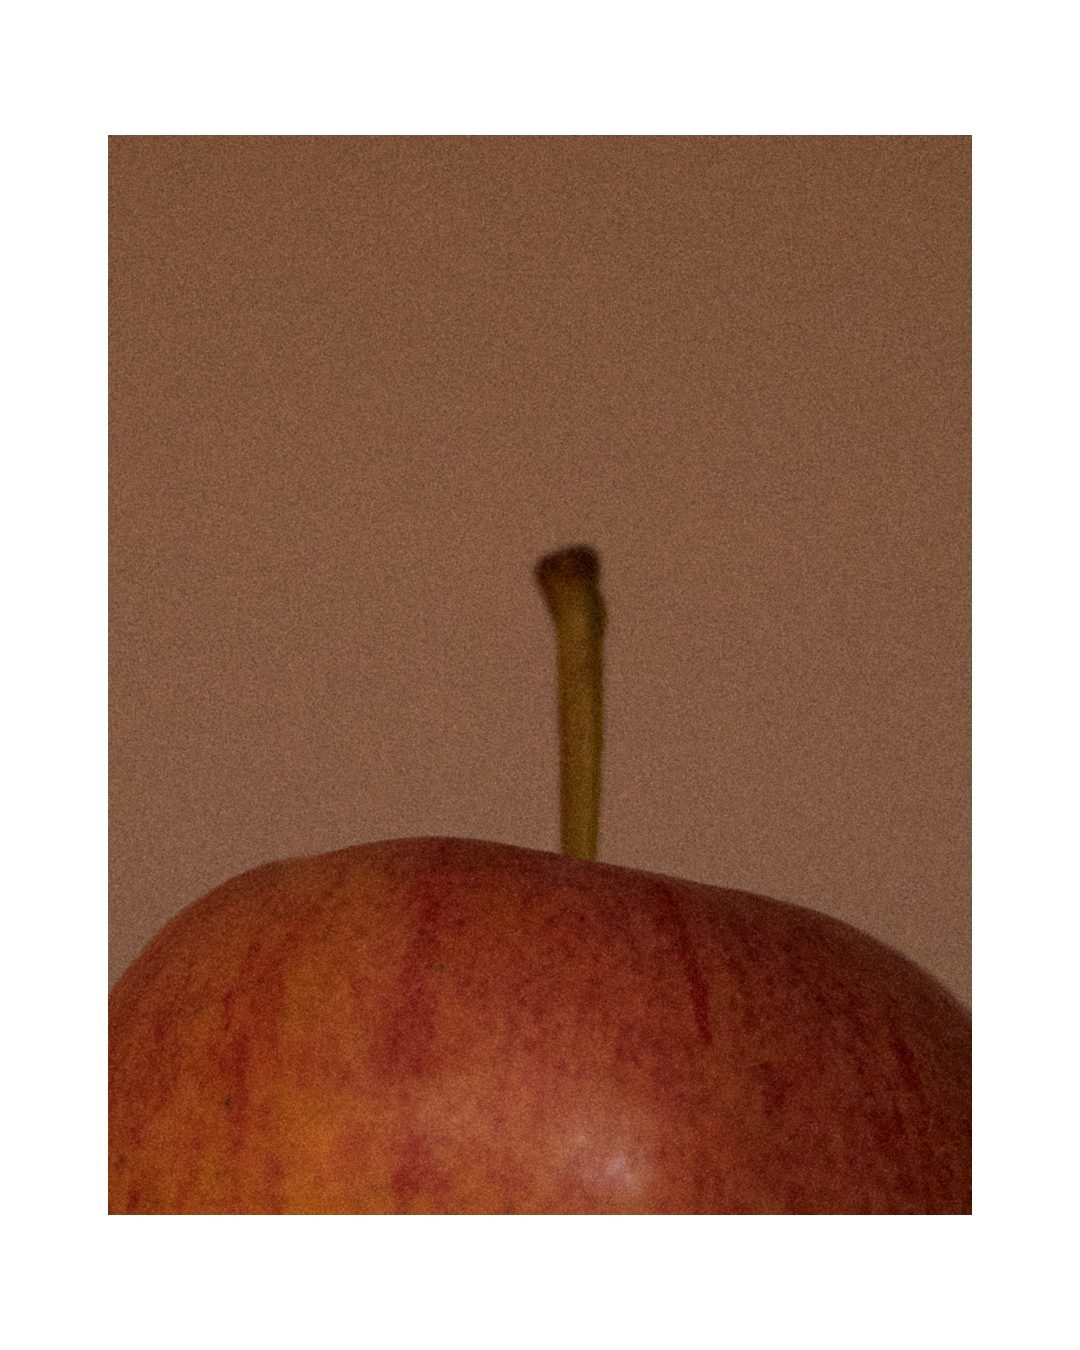
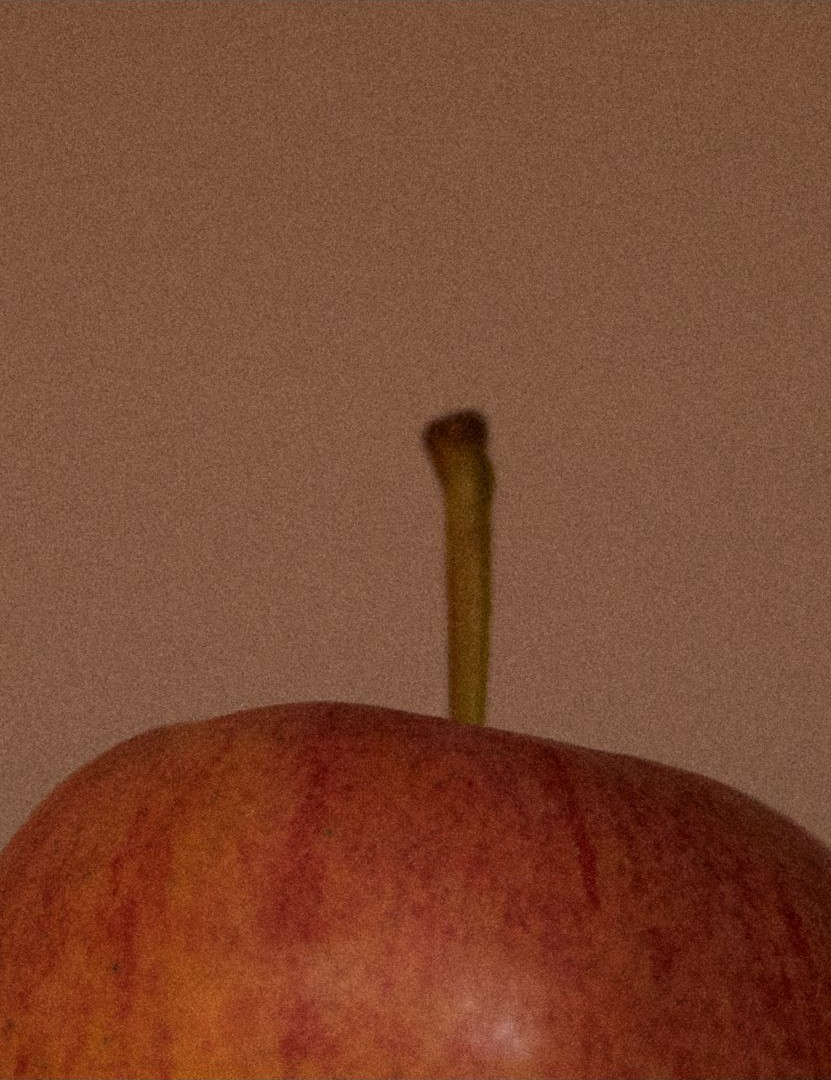
Studio : ratio et marge relevés image par image (31 valeurs), recadrage pomme 77 % et chevaux 87 % — colonne gauche exacte au pixel

diff --git a/studio.html b/studio.html
@@ -1,5 +1,5 @@
 <!DOCTYPE html>
-<html lang="fr" data-build="20260826-1925">
+<html lang="fr" data-build="20260826-2225">
 <head>
 <meta charset="utf-8">
 <meta http-equiv="Cache-Control" content="no-cache, no-store, must-revalidate">
@@ -10,7 +10,7 @@
 <meta name="description" content="Studio · Natures mortes, packshots et contenus produits réalisés par JP AYIVI.">
 <link rel="preload" href="assets/fonts/JumperPERSONALUSEONLY-Black.ttf" as="font" type="font/ttf" crossorigin>
 <link rel="preload" href="assets/fonts/JumperPERSONALUSEONLY-Light.ttf" as="font" type="font/ttf" crossorigin>
-<link rel="stylesheet" href="assets/css/style.css?v=2aa30fca">
+<link rel="stylesheet" href="assets/css/style.css?v=15c36648">
 </head>
 <body>
 <div class="pastille-cursor" aria-hidden="true"><span>Show<br>Reeel</span></div>
@@ -36,40 +36,39 @@
 <div class="gallery-wrap">
   <section class="masonry">
     <div class="col">
-      <figure class="item"><img src="media/st_2.jpg" alt="" loading="lazy"></figure>
-      <figure class="item"><img src="media/st_2G3A8914.jpg" alt="" loading="lazy"></figure>
-      <figure class="item"><img src="media/st_plums.jpg" alt="" loading="lazy"></figure>
-      <figure class="item"><img src="media/st_4.jpg" alt="" loading="lazy"></figure>
-      <figure class="item"><img src="media/st_8.jpg" alt="" loading="lazy"></figure>
-      <figure class="item"><img src="media/st_BK3A9473.jpg" alt="" loading="lazy"></figure>
-      <figure class="item"><img src="media/st_BK3A9519.jpg" alt="" loading="lazy"></figure>
-      <figure class="item"><img src="media/st_BK3A9525.jpg" alt="" loading="lazy"></figure>
-      <figure class="item"><img src="media/st_BK3A9601.jpg" alt="" loading="lazy"></figure>
-      <figure class="item"><img src="media/st_BK3A9621.jpg" alt="" loading="lazy"></figure>
-      <figure class="item item--crop item--crop-bottom"><img src="media/st_IMG_7305_1.jpg" alt="" loading="lazy"></figure>
-      <figure class="item"><img src="media/st_IMG_7305.jpg" alt="" loading="lazy"></figure>
-      <figure class="item"><img src="media/st_IMG_7960b.jpg" alt="" loading="lazy"></figure>
-      <figure class="item"><img src="media/st_IMG_8016.jpg" alt="" loading="lazy"></figure>
-      <figure class="item"><video src="media/studio_hover.mp4" autoplay muted loop playsinline></video></figure>
+      <figure class="item" style="aspect-ratio:771/1170;margin-bottom:4.28%"><img src="media/st_2.jpg" alt="" loading="lazy"></figure>
+      <figure class="item" style="aspect-ratio:771/1020;margin-bottom:4.02%"><img src="media/st_2G3A8914.jpg" alt="" loading="lazy"></figure>
+      <figure class="item" style="aspect-ratio:771/490;margin-bottom:1.43%"><img src="media/st_plums.jpg" alt="" loading="lazy"></figure>
+      <figure class="item" style="aspect-ratio:771/774;margin-bottom:5.19%"><img src="media/st_4.jpg" alt="" loading="lazy"></figure>
+      <figure class="item" style="aspect-ratio:771/1021;margin-bottom:6.1%"><img src="media/st_8.jpg" alt="" loading="lazy"></figure>
+      <figure class="item" style="aspect-ratio:771/1158;margin-bottom:5.06%"><img src="media/st_BK3A9473.jpg" alt="" loading="lazy"></figure>
+      <figure class="item" style="aspect-ratio:771/1161;margin-bottom:5.19%"><img src="media/st_BK3A9519.jpg" alt="" loading="lazy"></figure>
+      <figure class="item" style="aspect-ratio:771/1163;margin-bottom:6.1%"><img src="media/st_BK3A9525.jpg" alt="" loading="lazy"></figure>
+      <figure class="item" style="aspect-ratio:771/1169;margin-bottom:5.06%"><img src="media/st_BK3A9621.jpg" alt="" loading="lazy"></figure>
+      <figure class="item item--crop-bottom" style="aspect-ratio:771/1001;margin-bottom:4.54%"><img src="media/st_IMG_7305_1.jpg" alt="" loading="lazy"></figure>
+      <figure class="item" style="aspect-ratio:771/1209;margin-bottom:5.19%"><img src="media/st_IMG_7305.jpg" alt="" loading="lazy"></figure>
+      <figure class="item" style="aspect-ratio:771/639;margin-bottom:5.32%"><img src="media/st_IMG_7960b.jpg" alt="" loading="lazy"></figure>
+      <figure class="item" style="aspect-ratio:771/864;margin-bottom:5.06%"><img src="media/st_IMG_8016.jpg" alt="" loading="lazy"></figure>
+      <figure class="item" style="aspect-ratio:771/543;margin-bottom:0.0%"><video src="media/studio_hover.mp4" autoplay muted loop playsinline></video></figure>
     </div>
     <div class="col">
-      <figure class="item"><img src="media/st_2G3A8854.jpg" alt="" loading="lazy"></figure>
-      <figure class="item"><img src="media/st_2G3A8862.jpg" alt="" loading="lazy"></figure>
-      <figure class="item"><video src="media/st_pampille.mp4" autoplay muted loop playsinline></video></figure>
-      <figure class="item"><video src="media/st_parfum.mp4" autoplay muted loop playsinline></video></figure>
-      <figure class="item"><img src="media/st_6.jpg" alt="" loading="lazy"></figure>
-      <figure class="item"><img src="media/st_BK3A9466.jpg" alt="" loading="lazy"></figure>
-      <figure class="item"><img src="media/st_BK3A9499.jpg" alt="" loading="lazy"></figure>
-      <figure class="item"><img src="media/st_BK3A9520.jpg" alt="" loading="lazy"></figure>
-      <figure class="item"><img src="media/st_BK3A9593.jpg" alt="" loading="lazy"></figure>
-      <figure class="item"><img src="media/st_BK3A9598.jpg" alt="" loading="lazy"></figure>
-      <figure class="item"><img src="media/st_BK3A9622.jpg" alt="" loading="lazy"></figure>
-      <figure class="item"><img src="media/st_IMG_7224.jpg" alt="" loading="lazy"></figure>
-      <figure class="item item--crop"><img src="media/st_IMG_7305_5.jpg" alt="" loading="lazy"></figure>
-      <figure class="item"><img src="media/st_IMG_7948.jpg" alt="" loading="lazy"></figure>
-      <figure class="item"><img src="media/st_IMG_7960.jpg" alt="" loading="lazy"></figure>
-      <figure class="item"><img src="media/st_IMG_7966.jpg" alt="" loading="lazy"></figure>
-      <figure class="item"><video src="media/st_puzzle_entier.mp4" autoplay muted loop playsinline></video></figure>
+      <figure class="item" style="aspect-ratio:642/838;margin-bottom:4.83%"><img src="media/st_2G3A8854.jpg" alt="" loading="lazy"></figure>
+      <figure class="item" style="aspect-ratio:642/834;margin-bottom:5.76%"><img src="media/st_2G3A8862.jpg" alt="" loading="lazy"></figure>
+      <figure class="item" style="aspect-ratio:642/739;margin-bottom:5.45%"><video src="media/st_pampille.mp4" autoplay muted loop playsinline></video></figure>
+      <figure class="item" style="aspect-ratio:642/855;margin-bottom:5.76%"><video src="media/st_parfum.mp4" autoplay muted loop playsinline></video></figure>
+      <figure class="item" style="aspect-ratio:642/796;margin-bottom:5.92%"><img src="media/st_6.jpg" alt="" loading="lazy"></figure>
+      <figure class="item" style="aspect-ratio:642/965;margin-bottom:5.61%"><img src="media/st_BK3A9466.jpg" alt="" loading="lazy"></figure>
+      <figure class="item" style="aspect-ratio:642/964;margin-bottom:5.76%"><img src="media/st_BK3A9499.jpg" alt="" loading="lazy"></figure>
+      <figure class="item" style="aspect-ratio:642/965;margin-bottom:5.92%"><img src="media/st_BK3A9520.jpg" alt="" loading="lazy"></figure>
+      <figure class="item" style="aspect-ratio:642/552;margin-bottom:5.92%"><img src="media/st_BK3A9593.jpg" alt="" loading="lazy"></figure>
+      <figure class="item" style="aspect-ratio:642/763;margin-bottom:5.92%"><img src="media/st_BK3A9598.jpg" alt="" loading="lazy"></figure>
+      <figure class="item" style="aspect-ratio:642/778;margin-bottom:6.39%"><img src="media/st_BK3A9622.jpg" alt="" loading="lazy"></figure>
+      <figure class="item" style="aspect-ratio:642/921;margin-bottom:5.61%"><img src="media/st_IMG_7224.jpg" alt="" loading="lazy"></figure>
+      <figure class="item" style="aspect-ratio:642/660;margin-bottom:5.14%"><img src="media/st_IMG_7305_5.jpg" alt="" loading="lazy"></figure>
+      <figure class="item" style="aspect-ratio:642/411;margin-bottom:5.92%"><img src="media/st_IMG_7948.jpg" alt="" loading="lazy"></figure>
+      <figure class="item" style="aspect-ratio:642/505;margin-bottom:6.39%"><img src="media/st_IMG_7960.jpg" alt="" loading="lazy"></figure>
+      <figure class="item" style="aspect-ratio:642/572;margin-bottom:6.7%"><img src="media/st_IMG_7966.jpg" alt="" loading="lazy"></figure>
+      <figure class="item" style="aspect-ratio:642/914;margin-bottom:0.0%"><video src="media/st_puzzle_entier.mp4" autoplay muted loop playsinline></video></figure>
     </div>
   </section>
 </div>

diff --git a/assets/css/style.css b/assets/css/style.css
@@ -311,10 +311,17 @@ body.home-page{
   font-size:clamp(22px,2.4vw,38px);
   margin:0 0 20px;
 }
-.masonry{ overflow:hidden; --gap-col:3px; --gap-row:16px; }   /* colonne encore plus fine (retour client) */
-.masonry .col{ float:left; width:calc((100% - var(--gap-col)) / 2); }
-.masonry .col + .col{ margin-left:var(--gap-col); }
-.masonry .item{ margin-bottom:var(--gap-row); background:#e9e9dd; overflow:hidden; }
+/* Relevé au pixel sur site_ordi_studio_int.png (page 2258 px, contenu 1422 px) :
+   colonne gauche 771 px = 54,22 % · colonne droite 642 px = 45,15 %
+   trait vertical 10 px = 0,70 %  ·  écart horizontal 40 px = 2,81 % */
+.masonry{ overflow:hidden; --gap-col:0.70%; }
+.masonry .col{ float:left; }
+.masonry .col:first-child{ width:54.22%; }
+.masonry .col + .col{ width:45.08%; margin-left:var(--gap-col); }
+/* Chaque image porte son propre ratio et sa propre marge basse, relevés
+   image par image sur la maquette (attribut style dans studio.html).
+   Résultat : les deux colonnes retombent au pixel sur la hauteur du PSD. */
+.masonry .item{ background:#e9e9dd; overflow:hidden; }
 .masonry .item img,
 .masonry .item video{ width:100%;display:block; }
 
@@ -740,9 +747,13 @@ body.home-page{
   .site-header{ padding:22px var(--pad) 0; }
   .gallery-wrap, .gallery-wrap:has(.reel){ max-width:none; padding:92px var(--pad) 40px; }
   .gallery-wrap:has(.rs){ width:auto; }
-  .masonry{ --gap-col:6px; --gap-row:10px; }
-  .masonry .col{ float:none; width:100%; }
-  .masonry .col + .col{ margin-left:0; }
+  /* mobile : une seule colonne */
+  .masonry{ --gap-col:0; }
+  .masonry .col,
+  .masonry .col:first-child,
+  .masonry .col + .col{ float:none; width:100%; margin-left:0; }
+  .masonry .col:first-child .item,
+  .masonry .col + .col .item{ margin-bottom:10px; }
   .rs-band{ flex-wrap:wrap; } .rs-band .rs-post--sm,.rs-band .rs-post--lg{ width:100%; }
   .rs-row{ flex-wrap:wrap; } .rs-row > *{ width:100% !important; }
   .brand .name{ font-size:26px; }
@@ -889,6 +900,10 @@ html.has-pastille body.reel-open .reel-close, html.has-pastille body.reel-open .
 .reel-media.is-playing::after, .rs-media.is-playing::after{ opacity:0; }
 
 /* Recadrage plein (supprime l'espace vide) — photos studio signalées */
-.masonry .item--crop{ aspect-ratio:3/4; overflow:hidden; }
-.masonry .item--crop img{ width:100%; height:100%; object-fit:cover; object-position:center; display:block; }
+/* Le ratio est imposé image par image (voir studio.html) : le média remplit
+   exactement le cadre de la maquette, recadré au centre. */
+.masonry .item img,
+.masonry .item video{
+  width:100%; height:100%; object-fit:cover; object-position:center; display:block;
+}
 .masonry .item--crop-bottom img{ object-position:center bottom; }

diff --git a/index.html b/index.html
@@ -1,5 +1,5 @@
 <!DOCTYPE html>
-<html lang="fr" data-build="20260826-1925">
+<html lang="fr" data-build="20260826-2225">
 <head>
 <meta charset="utf-8">
 <meta http-equiv="Cache-Control" content="no-cache, no-store, must-revalidate">
@@ -10,7 +10,7 @@
 <meta name="description" content="JP AYIVI, créateur d'images : réalisation, montage et motion design pour les marques, entreprises et institutions.">
 <link rel="preload" href="assets/fonts/JumperPERSONALUSEONLY-Black.ttf" as="font" type="font/ttf" crossorigin>
 <link rel="preload" href="assets/fonts/JumperPERSONALUSEONLY-Light.ttf" as="font" type="font/ttf" crossorigin>
-<link rel="stylesheet" href="assets/css/style.css?v=2aa30fca">
+<link rel="stylesheet" href="assets/css/style.css?v=15c36648">
 </head>
 <body class="home-page">
 <div class="pastille-cursor" aria-hidden="true"><span>Show<br>Reeel</span></div>

diff --git a/reseaux.html b/reseaux.html
@@ -1,5 +1,5 @@
 <!DOCTYPE html>
-<html lang="fr" data-build="20260826-1925">
+<html lang="fr" data-build="20260826-2225">
 <head>
 <meta charset="utf-8">
 <meta http-equiv="Cache-Control" content="no-cache, no-store, must-revalidate">
@@ -10,7 +10,7 @@
 <meta name="description" content="Réseaux Sociaux — contenus courts, formats verticaux et campagnes social media réalisés par JP AYIVI.">
 <link rel="preload" href="assets/fonts/JumperPERSONALUSEONLY-Black.ttf" as="font" type="font/ttf" crossorigin>
 <link rel="preload" href="assets/fonts/JumperPERSONALUSEONLY-Light.ttf" as="font" type="font/ttf" crossorigin>
-<link rel="stylesheet" href="assets/css/style.css?v=2aa30fca">
+<link rel="stylesheet" href="assets/css/style.css?v=15c36648">
 </head>
 <body>
 <div class="pastille-cursor" aria-hidden="true"><span>Show<br>Reeel</span></div>

diff --git a/motion.html b/motion.html
@@ -1,5 +1,5 @@
 <!DOCTYPE html>
-<html lang="fr" data-build="20260826-1925">
+<html lang="fr" data-build="20260826-2225">
 <head>
 <meta charset="utf-8">
 <meta http-equiv="Cache-Control" content="no-cache, no-store, must-revalidate">
@@ -10,7 +10,7 @@
 <meta name="description" content="Motion design — habillages, génériques et films d'animation réalisés par JP AYIVI.">
 <link rel="preload" href="assets/fonts/JumperPERSONALUSEONLY-Black.ttf" as="font" type="font/ttf" crossorigin>
 <link rel="preload" href="assets/fonts/JumperPERSONALUSEONLY-Light.ttf" as="font" type="font/ttf" crossorigin>
-<link rel="stylesheet" href="assets/css/style.css?v=2aa30fca">
+<link rel="stylesheet" href="assets/css/style.css?v=15c36648">
 </head>
 <body>
 <div class="pastille-cursor" aria-hidden="true"><span>Show<br>Reeel</span></div>

diff --git a/fashion.html b/fashion.html
@@ -1,5 +1,5 @@
 <!DOCTYPE html>
-<html lang="fr" data-build="20260826-1925">
+<html lang="fr" data-build="20260826-2225">
 <head>
 <meta charset="utf-8">
 <meta http-equiv="Cache-Control" content="no-cache, no-store, must-revalidate">
@@ -10,7 +10,7 @@
 <meta name="description" content="Fashion — défilés, films de mode et campagnes textiles réalisés par JP AYIVI.">
 <link rel="preload" href="assets/fonts/JumperPERSONALUSEONLY-Black.ttf" as="font" type="font/ttf" crossorigin>
 <link rel="preload" href="assets/fonts/JumperPERSONALUSEONLY-Light.ttf" as="font" type="font/ttf" crossorigin>
-<link rel="stylesheet" href="assets/css/style.css?v=2aa30fca">
+<link rel="stylesheet" href="assets/css/style.css?v=15c36648">
 </head>
 <body>
 <div class="pastille-cursor" aria-hidden="true"><span>Show<br>Reeel</span></div>

diff --git a/communication.html b/communication.html
@@ -1,5 +1,5 @@
 <!DOCTYPE html>
-<html lang="fr" data-build="20260826-1925">
+<html lang="fr" data-build="20260826-2225">
 <head>
 <meta charset="utf-8">
 <meta http-equiv="Cache-Control" content="no-cache, no-store, must-revalidate">
@@ -10,7 +10,7 @@
 <meta name="description" content="Communication — films de marque, com interne et externe réalisés par JP AYIVI.">
 <link rel="preload" href="assets/fonts/JumperPERSONALUSEONLY-Black.ttf" as="font" type="font/ttf" crossorigin>
 <link rel="preload" href="assets/fonts/JumperPERSONALUSEONLY-Light.ttf" as="font" type="font/ttf" crossorigin>
-<link rel="stylesheet" href="assets/css/style.css?v=2aa30fca">
+<link rel="stylesheet" href="assets/css/style.css?v=15c36648">
 </head>
 <body>
 <div class="pastille-cursor" aria-hidden="true"><span>Show<br>Reeel</span></div>

diff --git a/evenementiel.html b/evenementiel.html
@@ -1,5 +1,5 @@
 <!DOCTYPE html>
-<html lang="fr" data-build="20260826-1925">
+<html lang="fr" data-build="20260826-2225">
 <head>
 <meta charset="utf-8">
 <meta http-equiv="Cache-Control" content="no-cache, no-store, must-revalidate">
@@ -10,7 +10,7 @@
 <meta name="description" content="Événementiel — captations et films d'événements réalisés par JP AYIVI.">
 <link rel="preload" href="assets/fonts/JumperPERSONALUSEONLY-Black.ttf" as="font" type="font/ttf" crossorigin>
 <link rel="preload" href="assets/fonts/JumperPERSONALUSEONLY-Light.ttf" as="font" type="font/ttf" crossorigin>
-<link rel="stylesheet" href="assets/css/style.css?v=2aa30fca">
+<link rel="stylesheet" href="assets/css/style.css?v=15c36648">
 </head>
 <body>
 <div class="pastille-cursor" aria-hidden="true"><span>Show<br>Reeel</span></div>

diff --git a/food.html b/food.html
@@ -1,5 +1,5 @@
 <!DOCTYPE html>
-<html lang="fr" data-build="20260826-1925">
+<html lang="fr" data-build="20260826-2225">
 <head>
 <meta charset="utf-8">
 <meta http-equiv="Cache-Control" content="no-cache, no-store, must-revalidate">
@@ -10,7 +10,7 @@
 <meta name="description" content="Food — cocktails, pizze et films culinaires réalisés par JP AYIVI.">
 <link rel="preload" href="assets/fonts/JumperPERSONALUSEONLY-Black.ttf" as="font" type="font/ttf" crossorigin>
 <link rel="preload" href="assets/fonts/JumperPERSONALUSEONLY-Light.ttf" as="font" type="font/ttf" crossorigin>
-<link rel="stylesheet" href="assets/css/style.css?v=2aa30fca">
+<link rel="stylesheet" href="assets/css/style.css?v=15c36648">
 </head>
 <body>
 <div class="pastille-cursor" aria-hidden="true"><span>Show<br>Reeel</span></div>

diff --git a/sport.html b/sport.html
@@ -1,5 +1,5 @@
 <!DOCTYPE html>
-<html lang="fr" data-build="20260826-1925">
+<html lang="fr" data-build="20260826-2225">
 <head>
 <meta charset="utf-8">
 <meta http-equiv="Cache-Control" content="no-cache, no-store, must-revalidate">
@@ -10,7 +10,7 @@
 <meta name="description" content="Sport — tennis, basket et films de terrain réalisés par JP AYIVI.">
 <link rel="preload" href="assets/fonts/JumperPERSONALUSEONLY-Black.ttf" as="font" type="font/ttf" crossorigin>
 <link rel="preload" href="assets/fonts/JumperPERSONALUSEONLY-Light.ttf" as="font" type="font/ttf" crossorigin>
-<link rel="stylesheet" href="assets/css/style.css?v=2aa30fca">
+<link rel="stylesheet" href="assets/css/style.css?v=15c36648">
 </head>
 <body>
 <div class="pastille-cursor" aria-hidden="true"><span>Show<br>Reeel</span></div>

diff --git a/about.html b/about.html
@@ -1,5 +1,5 @@
 <!DOCTYPE html>
-<html lang="fr" data-build="20260826-1925">
+<html lang="fr" data-build="20260826-2225">
 <head>
 <meta charset="utf-8">
 <meta http-equiv="Cache-Control" content="no-cache, no-store, must-revalidate">
@@ -10,7 +10,7 @@
 <meta name="description" content="JP AYIVI, directeur artistique et réalisateur : approche hybride entre image réelle, design graphique et narration visuelle.">
 <link rel="preload" href="assets/fonts/JumperPERSONALUSEONLY-Black.ttf" as="font" type="font/ttf" crossorigin>
 <link rel="preload" href="assets/fonts/JumperPERSONALUSEONLY-Light.ttf" as="font" type="font/ttf" crossorigin>
-<link rel="stylesheet" href="assets/css/style.css?v=2aa30fca">
+<link rel="stylesheet" href="assets/css/style.css?v=15c36648">
 </head>
 <body class="about-page">
 

diff --git a/showreel.html b/showreel.html
@@ -1,5 +1,5 @@
 <!DOCTYPE html>
-<html lang="fr" data-build="20260826-1925">
+<html lang="fr" data-build="20260826-2225">
 <head>
 <meta charset="utf-8">
 <meta http-equiv="Cache-Control" content="no-cache, no-store, must-revalidate">
@@ -10,7 +10,7 @@
 <meta name="description" content="Showreel de JP AYIVI — réalisation, montage et motion design.">
 <link rel="preload" href="assets/fonts/JumperPERSONALUSEONLY-Black.ttf" as="font" type="font/ttf" crossorigin>
 <link rel="preload" href="assets/fonts/JumperPERSONALUSEONLY-Light.ttf" as="font" type="font/ttf" crossorigin>
-<link rel="stylesheet" href="assets/css/style.css?v=2aa30fca">
+<link rel="stylesheet" href="assets/css/style.css?v=15c36648">
 </head>
 <body>
 <div class="pastille-cursor" aria-hidden="true"><span>Show<br>Reeel</span></div>
